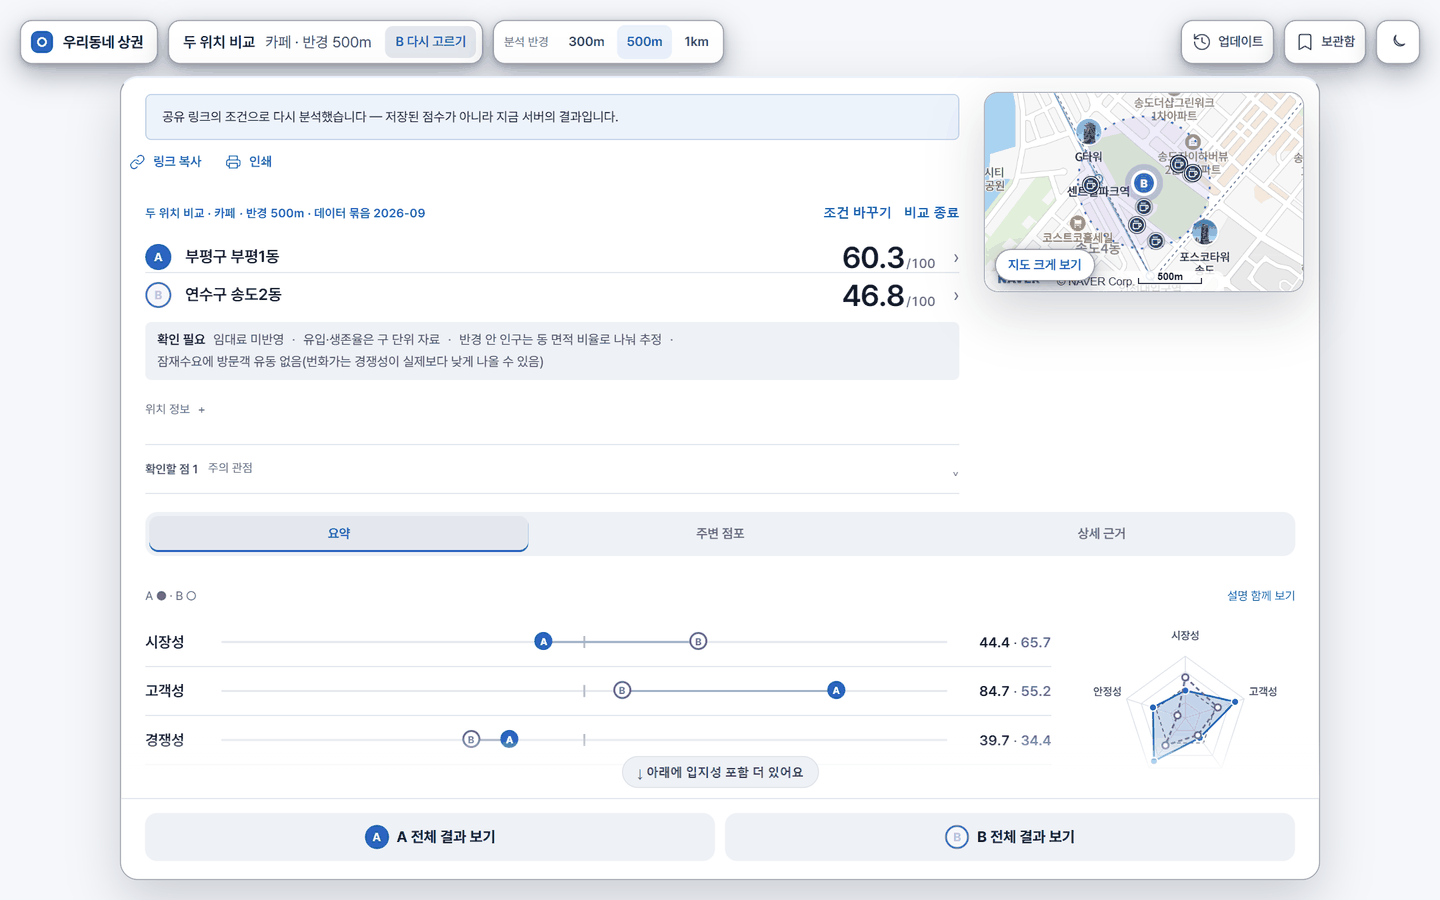
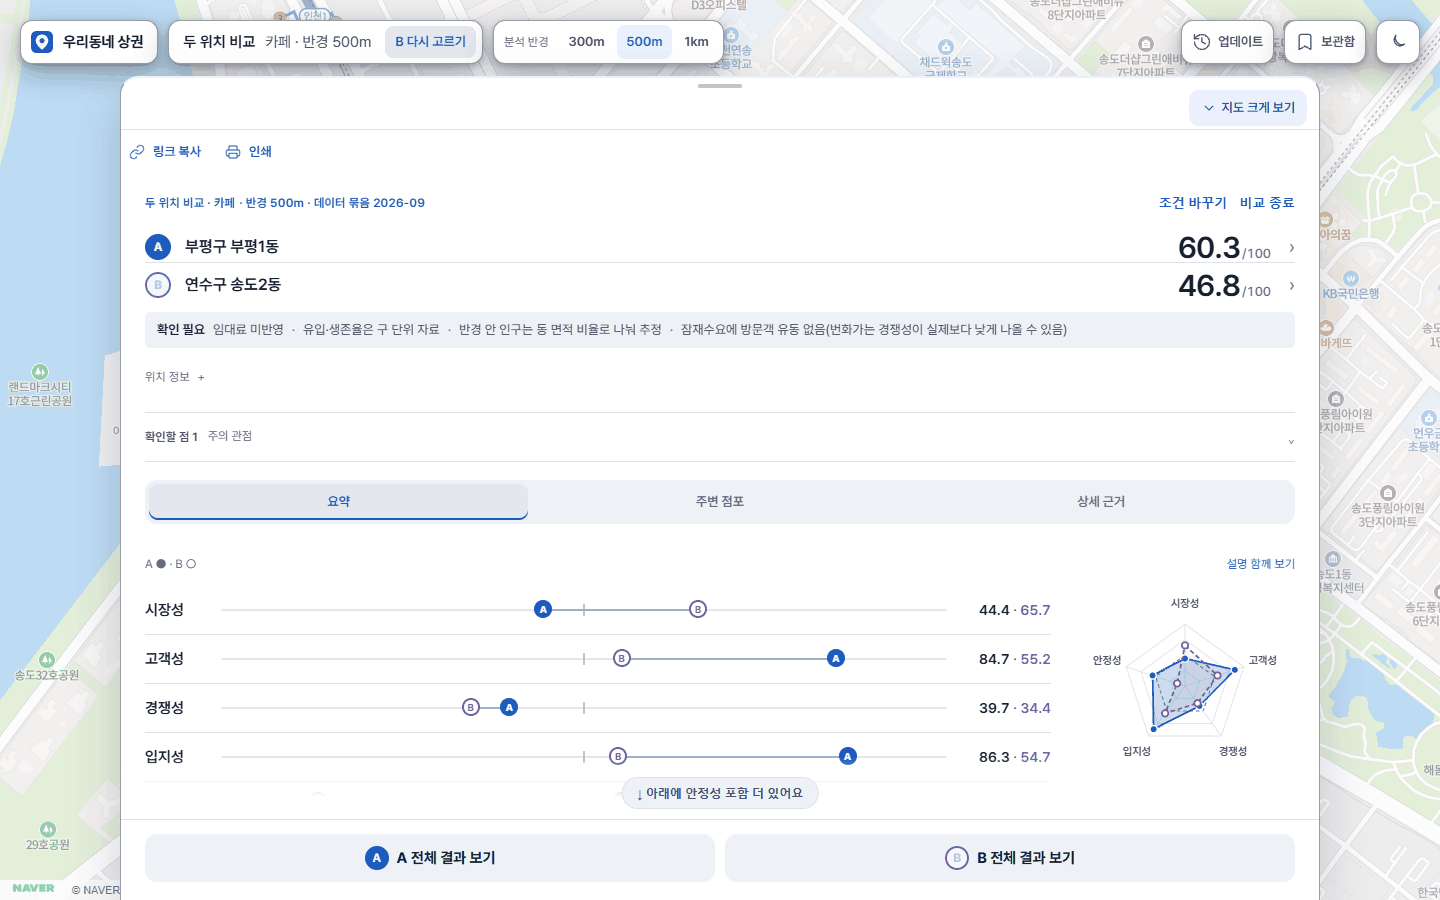
docs: v0.3.4 운영 전환 기록 — 875ebed 트래픽 100%(2026-11-10 16:35 KST), 운영 smoke PASSED·화면·ERROR·5xx 0, 복구 대상 9e96e6f, README 캡처를 운영 화면으로 다시 찍음 (13-45)
전체 check --jobs 5 19단계 PASS·E2E 5/5(875ebed). 무트래픽 smoke 1회차는 warm 3/87 에서 대조해 실패, warm 완료 뒤 2회차 PASSED. 패치노트에 검증·운영 배포 기록 2건과 커밋 875ebed·5ed802a 연결.

Patch-Note: v0.3.4

diff --git a/CLAUDE.md b/CLAUDE.md
@@ -1,7 +1,7 @@
 # CLAUDE.md
 
 ## Project Goal
-인천 지역에서 사용자가 지도상의 위치와 업종을 선택하면 버전 선택형 scoring engine으로 상권을 분석하는 웹 애플리케이션이다. 현재 운영은 앱 v0.3.3 + 엔진 v0.5.1(300·500·1,000m) + **데이터 버전 2026-09**(2026-11-02 02:54 KST 전환 `9e96e6f` — 13-44 대시보드 시트(D-044: 지도 전체 배경 + 끌어올리는 결과 시트, DESIGN 20.1), 복구 대상 `1c95e66` v0.3.2 — `docs/DEPLOYMENT_2026-11-02_v033_preview.md` 6장). 직전 전환: 앱 v0.3.2 + 데이터 2026-09(2026-11-01 05:19 KST 전환 `1c95e66` — 12-9 보안 헤더·9-C5 새 자료 알림·12-29 Firebase Hosting 앞단 대응(D-042: 짧은 주소 `.web.app`, `scripts/firebase_hosting.py`), 복구 대상 `e396c85` v0.3.1 — `docs/DEPLOYMENT_2026-11-01_v032_preview.md` 7장). 직전 전환: 앱 v0.3.1 + 데이터 2026-09(이미지 build arg `DATA_VERSION`, `data/versions/2026-09` — 데이터 파일은 git 밖이라 배포 작업 폴더가 컨텍스트에 넣는다)이다(2026-11-01 04:20 KST 전환 `e396c85` — 12-7 데이터 첫 갱신·12-8 CI·12-10 사용 현황 로그·지원사업 구 이름·공고 스냅샷(`scripts/build_support_snapshot.py --secrets` 를 배포마다), 복구 대상 `bae906e` v0.3.0·데이터 2026-06 — `docs/DEPLOYMENT_2026-11-01_v031_preview.md` 7장). 직전 전환: `bae906e` v0.3.0(2026-11-01 02:59 KST — R3 지원사업 연계(13-30~13-34, D-039: 기업마당·K-Startup, Secret `bizinfo-api-key`·`data-go-kr-api-key`)·가까운 역 승하차(13-40·13-41, D-040, `data/extra/`)·엔진 v0.6 요청서(13-42), 복구 대상 `9d22d1c` v0.2.0 — `docs/DEPLOYMENT_2026-11-01_v030_preview.md` 7장). 직전 전환: `9d22d1c` v0.2.0(2026-10-31 23:37 KST — R2 AI 요약·질문(13-23~13-29, D-037: Sonnet 5.5, 월 $30·하루 $3, 키는 Secret `anthropic-api-key`), 복구 대상 `0cfb689` v0.1.1 — `docs/DEPLOYMENT_2026-10-31_v020_preview.md` 7장). 직전 전환: `0cfb689` v0.1.1(09:20 KST — R1 미착수분 13-21·D7: 보관함 저장 당시 요약·인쇄 요약 카드·비교 요약 거미줄·첫 방문 안내 한 번의 흐름, 복구 대상 `2542152` v0.1.0 — `docs/DEPLOYMENT_2026-10-31_v011_preview.md` 7장). 직전 전환: `2542152` v0.1.0(2026-10-31 08:39 KST, R1 대시보드 리디자인 + Codex 검수 R1-1~R1-10, `docs/DEPLOYMENT_2026-10-31_v010_preview.md`). 그 전: `ef32cc5` v0.0.16(02:20 KST, R0 긴급 수정). R3 까지 계획(2026-10-30) 묶음을 모두 운영에 올렸다. 엔진 v0.6 은 엔진 담당 회신 뒤 별도 단위다. 다음 작업은 사용자 지시로 시작한다. 직전의 직전: `b7979c4` v0.0.15(2026-10-29 14:07 KST). 장소 이름 검색은 서버에 NAVER 검색 키가 없어 꺼진 채다(켜려면 Secret 추가 별도 배포). 직전 전환: `c0ebd5b` v0.0.14(09:59 KST, 0차 "정확한 의미", `docs/DEPLOYMENT_2026-10-29_v0014_preview.md`). 운영 화면 확인은 NAVER 등록 주소(프로젝트 번호 형식)에서만 한다(D-018). **Cloud Run 배포·전환·태그 정리는 `scripts/deploy_cloud_run.py` 로만 한다**(후보 리비전 최소 인스턴스 0·운영 최소는 서비스 단위·비용 설정 명시, 검증 태그는 끝나면 제거 — D-038, `docs/COST_2026-10-31.md`).
+인천 지역에서 사용자가 지도상의 위치와 업종을 선택하면 버전 선택형 scoring engine으로 상권을 분석하는 웹 애플리케이션이다. 현재 운영은 앱 v0.3.4 + 엔진 v0.5.1(300·500·1,000m) + **데이터 버전 2026-09**(2026-11-10 16:35 KST 전환 `875ebed` — 13-45 위치 핀 로고, 복구 대상 `9e96e6f` v0.3.3 — `docs/DEPLOYMENT_2026-11-10_v034_preview.md` 5장). 직전 전환: 앱 v0.3.3(2026-11-02 02:54 KST 전환 `9e96e6f` — 13-44 대시보드 시트(D-044: 지도 전체 배경 + 끌어올리는 결과 시트, DESIGN 20.1), 복구 대상 `1c95e66` v0.3.2 — `docs/DEPLOYMENT_2026-11-02_v033_preview.md` 6장). 직전 전환: 앱 v0.3.2 + 데이터 2026-09(2026-11-01 05:19 KST 전환 `1c95e66` — 12-9 보안 헤더·9-C5 새 자료 알림·12-29 Firebase Hosting 앞단 대응(D-042: 짧은 주소 `.web.app`, `scripts/firebase_hosting.py`), 복구 대상 `e396c85` v0.3.1 — `docs/DEPLOYMENT_2026-11-01_v032_preview.md` 7장). 직전 전환: 앱 v0.3.1 + 데이터 2026-09(이미지 build arg `DATA_VERSION`, `data/versions/2026-09` — 데이터 파일은 git 밖이라 배포 작업 폴더가 컨텍스트에 넣는다)이다(2026-11-01 04:20 KST 전환 `e396c85` — 12-7 데이터 첫 갱신·12-8 CI·12-10 사용 현황 로그·지원사업 구 이름·공고 스냅샷(`scripts/build_support_snapshot.py --secrets` 를 배포마다), 복구 대상 `bae906e` v0.3.0·데이터 2026-06 — `docs/DEPLOYMENT_2026-11-01_v031_preview.md` 7장). 직전 전환: `bae906e` v0.3.0(2026-11-01 02:59 KST — R3 지원사업 연계(13-30~13-34, D-039: 기업마당·K-Startup, Secret `bizinfo-api-key`·`data-go-kr-api-key`)·가까운 역 승하차(13-40·13-41, D-040, `data/extra/`)·엔진 v0.6 요청서(13-42), 복구 대상 `9d22d1c` v0.2.0 — `docs/DEPLOYMENT_2026-11-01_v030_preview.md` 7장). 직전 전환: `9d22d1c` v0.2.0(2026-10-31 23:37 KST — R2 AI 요약·질문(13-23~13-29, D-037: Sonnet 5.5, 월 $30·하루 $3, 키는 Secret `anthropic-api-key`), 복구 대상 `0cfb689` v0.1.1 — `docs/DEPLOYMENT_2026-10-31_v020_preview.md` 7장). 직전 전환: `0cfb689` v0.1.1(09:20 KST — R1 미착수분 13-21·D7: 보관함 저장 당시 요약·인쇄 요약 카드·비교 요약 거미줄·첫 방문 안내 한 번의 흐름, 복구 대상 `2542152` v0.1.0 — `docs/DEPLOYMENT_2026-10-31_v011_preview.md` 7장). 직전 전환: `2542152` v0.1.0(2026-10-31 08:39 KST, R1 대시보드 리디자인 + Codex 검수 R1-1~R1-10, `docs/DEPLOYMENT_2026-10-31_v010_preview.md`). 그 전: `ef32cc5` v0.0.16(02:20 KST, R0 긴급 수정). R3 까지 계획(2026-10-30) 묶음을 모두 운영에 올렸다. 엔진 v0.6 은 엔진 담당 회신 뒤 별도 단위다. 다음 작업은 사용자 지시로 시작한다. 직전의 직전: `b7979c4` v0.0.15(2026-10-29 14:07 KST). 장소 이름 검색은 서버에 NAVER 검색 키가 없어 꺼진 채다(켜려면 Secret 추가 별도 배포). 직전 전환: `c0ebd5b` v0.0.14(09:59 KST, 0차 "정확한 의미", `docs/DEPLOYMENT_2026-10-29_v0014_preview.md`). 운영 화면 확인은 NAVER 등록 주소(프로젝트 번호 형식)에서만 한다(D-018). **Cloud Run 배포·전환·태그 정리는 `scripts/deploy_cloud_run.py` 로만 한다**(후보 리비전 최소 인스턴스 0·운영 최소는 서비스 단위·비용 설정 명시, 검증 태그는 끝나면 제거 — D-038, `docs/COST_2026-10-31.md`).
 **1차 "활용"(앱 v0.0.15, D-036)**: 2026-10-29 저장소 반영(`docs/TASKS.md` 12-3·12-26·12-27·12-25·12-15·12-14: 조건 공유 링크·반경별 비교 표·현장 확인 카드·후보 보관함·인쇄·장소 이름 검색 프록시) → Codex 검수 3차 통과(R1~R5 수정 `b5b8746`·`b7979c4`, `docs/CODEX_REVIEW_2026-10-29_v0015.md`) → 무트래픽 검증(13:52 KST) → **운영 전환(14:07 KST)**. 다음 단계(2차 체계·3차 모델 검증, `docs/IMPROVEMENT_PLAN_2026-10-29.md` 4·5장)는 사용자 지시로 시작한다. 장소 검색의 운영 반영은 사용자가 NAVER 검색 API 키를 발급해 Cloud Run Secret 으로 넣은 뒤 별도 배포 단위다.
 2026-10-19 운영 배포(당시 기록): 사용자 승인으로 `1020200`의 A3 다크·UI 간소화·v0.4 반경 선택을 배포했다. 무트래픽 검증과 warm 87/87 완료 후 100% 전환했고, 이전 리비전은 복구용으로 보존했다. 배포 검증 범위와 미완료 항목은 `docs/DEPLOYMENT_2026-10-19.md`. 아래 기존 단위의 운영 미배포 표기는 배포 전 기록이다. 모바일 지도 시트 참고 주소 한 줄의 production CSS 차이가 후속으로 남아 있다.
 구현·검수 이력: A3 지도 탐색형·블루안(`DESIGN.md` §19, D-023), 8-B1 단일·8-B2 비교 지도 맞춤, 8-DK·8-L·8-C1a~d·8-P 및 추가 UI 간소화, 8-D1~8-D3 반경 선택을 저장소에 반영했고 이번 배포에 포함했다.

diff --git a/docs/TASKS.md b/docs/TASKS.md
@@ -2,9 +2,9 @@
 
 검증은 `CLAUDE.md` Definition of Done(2026-10-25 개정)을 따른다 — 작업 중에는 변경별 검증(영향받는 검사·`scripts/check --only`), 배포 후보가 확정되면 최종 소스로 전체 `scripts/check` 1회. 아래 과거 항목의 "전체 check" 기록은 당시 규칙이다. 위에서부터 순서대로.
 
-## 현재 운영 상태 (마지막 전환 2026-11-02 02:54 KST)
+## 현재 운영 상태 (마지막 전환 2026-11-10 16:35 KST)
 
-**지금 기준(2026-11-02)** — 운영 = `9e96e6f`(앱 v0.3.3, 엔진 v0.5.1, 데이터 2026-09) 트래픽 100%, 복구 대상 `1c95e66`(v0.3.2), [기록](DEPLOYMENT_2026-11-02_v033_preview.md) 6장. 바로 이어서 할 개발 단위는 없다. 남은 항목은 모두 사용자 지시나 외부 조건이 있어야 시작한다:
+**지금 기준(2026-11-10)** — 운영 = `875ebed`(앱 v0.3.4, 엔진 v0.5.1, 데이터 2026-09) 트래픽 100%, 복구 대상 `9e96e6f`(v0.3.3), [기록](DEPLOYMENT_2026-11-10_v034_preview.md) 5장. 바로 이어서 할 개발 단위는 없다. 남은 항목은 모두 사용자 지시나 외부 조건이 있어야 시작한다:
 - 사용자·팀 쪽: 엔진 v0.6 요청 전달([요청서](ENGINE_V0_6_REQUEST.md))과 10-7 확인 요청, 실기기·Safari·Firefox·스크린리더 확인, 9-A5 구 지명 가독성(발행 시점은 사용자 판단), 예비창업자 과제 테스트([12-24](VALIDATION_2026-11-01.md) 7장).
 - 키·자료가 있어야 하는 선택 항목: 장소 이름 검색(NAVER 검색 키 Secret 추가 뒤 별도 배포), 12-29 ③ 사용자 도메인, 10장 v0.6 검토 과제(자료 확보 먼저), 8-D2c 정식 반복·동시 부하 측정.
 - 계속 보관: `data/versions/2026-09`와 인허가 원본 파일 — 전향적 시간 분할 검증에 필요하다. 1년 결과는 2027-10 이후다([12-24](VALIDATION_2026-11-01.md) 6장).
@@ -110,8 +110,8 @@
 - [x] 13-41 (2026-11-01, v0.3.0, D-040) (b) 화면 자료로 도입: 인천교통공사 역별 시간대별 승하차 → `scripts/build_station_ridership.py` → `data/extra/station_ridership.csv`(68역·272행, 2025-07~2026-06 평일/주말 하루 평균, 원본은 저장소 밖) → `backend/app/ridership.py`(1회 로드, 엔진 역 좌표로 1km 안 가장 가까운 역) → `/insights` 선택 필드 `station` → 시간대·인구 카드 "가까운 역" 블록(평일/주말 하차 막대·합계·출처·포함 노선·점수 무관). Dockerfile `COPY data/extra/`. 코레일 자료는 원 게시판 공공누리 4유형(변경금지)이라 제외 — 경인선 이용자 빠짐을 화면에 밝힘. 테스트: backend `test_ridership.py` 4(변환·파일 무결성·가까운 역·계약), frontend `StationRidershipBlock` 4, v0.5 패키징 2. 브라우저(로컬): 부평역 앞 블록·평일/주말 전환·눈금. 원래 항목: 도입: (a) 엔진 입력 가능 → `data/versions/<id>/`(12-7과 합침, 검증 7단계·29업종 diff) / (b) 화면 전용 → `data/extra/` + 13-15 카드 확장. `data/runtime` 불변. 검증 D 또는 C+B.
 - [x] 13-42 (2026-11-01) 엔진 v0.6 요청서 [ENGINE_V0_6_REQUEST.md](ENGINE_V0_6_REQUEST.md) — ① M3 에 역 승하차(지점 단위) 반영 검토(구 11개 백분위 한계, 코레일은 이용 조건 확인 필요) ② 야간 업종: M3 가 도착 인원 기준이라 심야 체류 업종 불리 가능(체류 근사·야간 구간·실제 매출 시간 분포 안) ③ 등급 70/40/25 확인·엔진 등급 필드 여부 ④ 경쟁성 31.9 vs 32.4 = v0.5.1 분동 수정에 따른 비교 분포 변화 — 팀 엔진 반영·결과표 재생성 요청, 안정성 차이는 웹 임대료 미연결 ⑤ 잠재수요 문구 통일 + 이전 확인 요청(10-7). **전달은 사용자 몫**(팀 채널) — 회신 오면 v0.6 절차. 검증 A(문서, 인용 코드 값 대조). 원래 항목: 엔진 v0.6 요청서(시간대 적합도 새 자료·야간 업종·등급 경계값·경쟁성 v0.5→v0.5.1 설명·잠재수요 문구). 검증 A.
 - [x] 13-43 R3 마무리 — **운영 전환 완료(2026-11-01 02:59 KST, 사용자 승인 "전환 진행", `bae906e` v0.3.0, 운영 smoke PASSED·화면 확인·ERROR·5xx 0, 배포 문서 7장)**. 무트래픽 검증 통과(2026-11-01) — `docs/DEPLOYMENT_2026-11-01_v030_preview.md`: `bae906e` 전체 check `--jobs 5` 1회차 19단계 PASS·E2E 5/5, 무트래픽 `bae906e-v051`(Secret 3개) smoke PASS(48건 불일치 0·가까운 역 부평), 서버 지원사업 수집 543건, 화면 지원사업 카드·AI 요약(목록 공고만)·가까운 역. 배포 스크립트 `--support`. 원래 항목: R3 마무리: 패치노트 v0.3.0, 전체 check + E2E, Secret(사용자) → 무트래픽 → 승인 전환. 검증 F.
-- [x] 13-44 (2026-11-02, 앱 v0.3.3, D-044, **운영 전환 02:54 KST `9e96e6f`**, [기록](DEPLOYMENT_2026-11-02_v033_preview.md)) 대시보드를 지도 전체 배경 + 끌어올리는 시트로: 손잡이 끌기·누르기·키보드, 오른쪽 패널 ↔ 시트 이어지는 전환, 지도를 눌러 닫힌 결과의 "이전 결과로 돌아가기", 1366 폭 조건 바 두 줄 겹침 수정. README 캡처(`docs/images/`)는 지난 화면이라 다시 찍을지 사용자 확인 필요.
-- [x] 13-45 (2026-11-02, 앱 v0.3.4, 저장소 반영 — 운영 미반영) 로고를 임시 고리에서 위치 핀으로 교체(시안 4개 중 사용자 선택 A안): `frontend/public/favicon.svg` + 조건 바 인라인 SVG(테마 색 따름). 홈 화면 아이콘·링크 미리보기 이미지는 범위 밖.
+- [x] 13-44 (2026-11-02, 앱 v0.3.3, D-044, **운영 전환 02:54 KST `9e96e6f`**, [기록](DEPLOYMENT_2026-11-02_v033_preview.md)) 대시보드를 지도 전체 배경 + 끌어올리는 시트로: 손잡이 끌기·누르기·키보드, 오른쪽 패널 ↔ 시트 이어지는 전환, 지도를 눌러 닫힌 결과의 "이전 결과로 돌아가기", 1366 폭 조건 바 두 줄 겹침 수정. README 캡처(`docs/images/`)는 2026-11-10 v0.3.4 운영 화면으로 다시 찍음([기록](DEPLOYMENT_2026-11-10_v034_preview.md) 6장).
+- [x] 13-45 (2026-11-02, 앱 v0.3.4, **운영 전환 2026-11-10 16:35 KST `875ebed`**, [기록](DEPLOYMENT_2026-11-10_v034_preview.md)) 로고를 임시 고리에서 위치 핀으로 교체(시안 4개 중 사용자 선택 A안): `frontend/public/favicon.svg` + 조건 바 인라인 SVG(테마 색 따름). 홈 화면 아이콘·링크 미리보기 이미지는 범위 밖.
 
 ## 12. 운영 사이트·저장소 진단 후속 (2026-10-29, [진단](REVIEW_2026-10-29.md)) — 모든 단위 처리 완료(2026-11-01, 12-13은 구현하지 않기로 제외, 12-29 ③ 사용자 도메인은 선택으로 남음)
 

diff --git a/docs/DEPLOYMENT_2026-11-10_v034_preview.md b/docs/DEPLOYMENT_2026-11-10_v034_preview.md
@@ -1,0 +1,39 @@
+# 운영 전환 기록 — 앱 v0.3.4 + 엔진 v0.5.1 + 데이터 2026-09 (2026-11-10 · **운영 전환 5장**)
+
+배포 후보 = v0.3.3 운영본(`9e96e6f`) 뒤 문서 커밋(`97cb59d`) + 13-45 위치 핀 로고(`875ebed`). 사용자 지시 "바로 할 수 있는 3개 바로 진행해줘"(로고 v0.3.4 푸시·배포, README 캡처, 발표 폴더 정리). 바뀐 것은 브라우저 탭 아이콘(`public/favicon.svg`)과 조건 바 로고(인라인 SVG)뿐이다. 엔진·데이터(2026-09)·API 는 운영과 같아 점수는 바뀌지 않는다.
+
+## 1. 검증 (규칙 F)
+| 소스 | 명령 | 결과 |
+| --- | --- | --- |
+| `875ebed` | 전체 check `--jobs 5` | **19단계 PASS, 재실행 없음**(v0.3 382 · v0.4 61 · v0.5 104 · v0.5.1 40 · backend 258 passed/1 skipped · frontend 66파일 1,038 · patch-notes, 607.3초) |
+| `875ebed` | E2E `--only e2e` | 5흐름 PASS(77.6초) |
+
+- 로그 `.gstack/check-logs/v034-*.log`(git 제외). 보호 경로 변경 0. 프런트 이외 서버·엔진·데이터 변경 0.
+- 로고 단위 검증(커밋 전, 2026-11-02): 관련 vitest 3파일 207건, typecheck, lint, production build, 로컬 개발 서버 라이트·다크 로고 22×22px·색 확인.
+
+## 2. 이미지
+- 작업 폴더 `.gstack/deploy-875ebed/`(git 제외): `git -c core.autocrlf=false archive 875ebed` → 추출 뒤 blob 대조 1,125개 중 차이 2개 = `.gitattributes` `eol=crlf` 보호 원본(직전 배포와 같은 의도된 차이).
+- 데이터 2026-09 파일 + 공고 스냅샷(`build_support_snapshot.py --secrets`, 557건 = 기업마당 436 + K-Startup 131, 2026-11-10 16:04 기준) + 역 승하차 자료(커밋 그대로). 처음에 역 자료 2개를 작업 폴더 사본(줄바꿈 변환)으로 덮어썼다가 커밋 원본으로 되돌리고 추적 파일 전체를 다시 대조했다(차이 = 위 2개뿐).
+- 첫 빌드는 Docker Desktop 이 꺼져 있어 **실패**(엔진 연결 불가) — 켠 뒤 다시 빌드 "data version 2026-09 roles 8 bad []". push digest `sha256:efc80946eeea17559e3503ab838f73b83284b28f12b7f3c2cb9fd4abcf31a98a`.
+
+## 3. 무트래픽 리비전 `<서비스>-875ebed-v051`
+- `deploy_cloud_run.py candidate 875ebed --ai --support --apply`(최소 0·최대 1·CPU 상시·Secret 3개 이름만), 태그 `preview`, 트래픽 0.
+- `smoke_api.py check`(기대값 = e396c85 때 만든 데이터 2026-09·엔진 v0.5.1 기대값 재사용 — 엔진·데이터 입력이 같다):
+  - 1회차 **FAILED** — 리비전이 막 켜져 warm 3/87 에서 대조했다(실패 항목은 warm 미완료 1건뿐).
+  - `/health` warm 87/87 을 기다린 뒤 2회차 **SMOKE PASSED**: 48건 불일치 0(지연 최소 116 · 중앙값 135 · 최대 229ms), `/rank` 29개 일치, `/insights` 가까운 역 부평·20, AI budget ok.
+- 리비전 ERROR·5xx 0.
+
+## 4. 화면 (preview 등록 주소, 인증 성공)
+- Playwright(Chromium) 1440×900 다크, 실제 NAVER 지도: 지도 인증 성공(래스터), 조건 바 로고 = 위치 핀 22×22px, `/favicon.svg` 위치 핀, 부평1동 카페 500m 종합 60.3·가까운 역 부평역·AI 요약·지원사업 카드, 업데이트 내역 최신 v0.3.4, 콘솔 오류 0.
+- 내장 브라우저 패널은 가려진 상태라 지도가 "불러오는 중"에 머물러(백그라운드 페이지) 판정에 쓰지 않았다.
+
+## 5. 운영 전환 (2026-11-10 16:35 KST, 사용자 지시 "바로 진행해줘")
+- `python scripts/deploy_cloud_run.py switch <서비스>-875ebed-v051 --apply`: 전환 전 `9e96e6f-v051` 100% 확인, 전환 뒤 `875ebed-v051` 100%·서비스 `minScale` 1, 새 리비전 안 생김.
+- 운영 주소 `smoke_api.py check`(같은 기대값) **SMOKE PASSED**: warm 87/87, `/health data` 2026-09, 48건 불일치 0(지연 최소 106 · 중앙값 139 · 최대 240ms), `/rank` 29개 일치, 가까운 역 부평·20.
+- Firebase 기본 주소도 `/health` 200.
+- 등록 운영 주소 화면(Playwright 1440×900 다크): 지도 인증 성공, 위치 핀 로고·favicon, 부평1동 카페 500m 60.3·AI 요약·지원사업, 업데이트 내역 v0.3.4, 콘솔 오류 0.
+- 복구: `python scripts/deploy_cloud_run.py rollback <서비스>-9e96e6f-v051 --apply`(v0.3.3).
+- 미검증: 실기기·Safari·Firefox·스크린리더, 실제 브라우저 탭에 보이는 아이콘(헤드리스로는 `/favicon.svg` 응답만 확인).
+
+## 6. README 캡처
+- 전환 뒤 등록 운영 주소에서 4장(시작·결과·비교 라이트 1440×900, 모바일 다크 390×844 @2x)을 다시 찍어 256색으로 줄여 `docs/images/` 에 넣었다. 공유 링크로 연 화면의 "공유 링크의 조건으로 다시 분석했습니다" 안내는 반경 1km → 500m 로 같은 조건을 다시 분석해 지운 뒤 찍었다.

diff --git a/README.md b/README.md
@@ -6,7 +6,7 @@
 
 예비 창업자가 "여기에 이 가게를 열어도 될까?"를 공개 데이터로 먼저 따져 보는 웹 서비스입니다.
 
-[![check](https://github.com/Ow-wL/harness-commercial/actions/workflows/check.yml/badge.svg)](https://github.com/Ow-wL/harness-commercial/actions/workflows/check.yml) ![앱](https://img.shields.io/badge/%EC%95%B1-v0.3.2-1B5CBE) ![엔진](https://img.shields.io/badge/%EC%97%94%EC%A7%84-v0.5.1-1B5CBE) ![데이터](https://img.shields.io/badge/%EB%8D%B0%EC%9D%B4%ED%84%B0-2026--09-1B5CBE)
+[![check](https://github.com/Ow-wL/harness-commercial/actions/workflows/check.yml/badge.svg)](https://github.com/Ow-wL/harness-commercial/actions/workflows/check.yml) ![앱](https://img.shields.io/badge/%EC%95%B1-v0.3.4-1B5CBE) ![엔진](https://img.shields.io/badge/%EC%97%94%EC%A7%84-v0.5.1-1B5CBE) ![데이터](https://img.shields.io/badge/%EB%8D%B0%EC%9D%B4%ED%84%B0-2026--09-1B5CBE)
 
 ![React](https://img.shields.io/badge/React-20232A?logo=react&logoColor=61DAFB) ![TypeScript](https://img.shields.io/badge/TypeScript-3178C6?logo=typescript&logoColor=white) ![FastAPI](https://img.shields.io/badge/FastAPI-009688?logo=fastapi&logoColor=white) ![Python](https://img.shields.io/badge/Python_3.10-3776AB?logo=python&logoColor=white) ![Cloud Run](https://img.shields.io/badge/Cloud_Run-4285F4?logo=googlecloud&logoColor=white)
 
@@ -33,7 +33,7 @@
   </tr>
 </table>
 
-<sub>로컬 개발 서버에서 앱 v0.3.2·엔진 v0.5.1·데이터 2026-09로 찍은 화면입니다(2026-11-01). AI·지원사업 카드는 키 없이 실행해 빠져 있습니다. 지도 © NAVER Corp.</sub>
+<sub>운영 화면(앱 v0.3.4·엔진 v0.5.1·데이터 2026-09)에서 찍었습니다(2026-11-10). 결과는 지도 위로 끌어올리는 시트로 보이고, 지도를 크게 본 뒤에도 이전 결과로 돌아올 수 있습니다. 지도 © NAVER Corp.</sub>
 
 ## ✨ 주요 기능
 
@@ -42,7 +42,7 @@
 | 📍 | **위치 고르기** | 지도 클릭, 주소 검색, 역 이름, 좌표 입력 |
 | 🏪 | **업종 29개** | 고객밀착형·유동인구형·목적방문형·체류소비형, 유형마다 관점 가중치가 다릅니다 |
 | ⭕ | **분석 반경** | 300m · 500m · 1km, 반경별 비교 표 |
-| 📊 | **결과 대시보드** | 종합 점수와 등급, 한 줄 결론, 거미줄 그래프, 점수순 관점 막대, 근거 펼쳐 보기 |
+| 📊 | **결과 대시보드** | 지도 위로 끌어올리는 결과 시트 — 종합 점수와 등급, 한 줄 결론, 거미줄 그래프, 점수순 관점 막대, 근거 펼쳐 보기 |
 | 🏆 | **업종 순위** | 같은 자리에서 점수가 높은 업종 순서 |
 | 🕒 | **시간대와 사람** | 구 단위 시간대별 유입, 가까운 지하철역 승하차(점수와 무관) |
 | ⚠ | **규제 경고** | 학교 주변 규제 업종이면 점수 위에 경고를 펼쳐 보입니다 |
@@ -165,7 +165,7 @@ npm --prefix frontend run dev                              # frontend — http:/
 | 화면과 API 계약이 맞는지 | Zod 스키마, 백엔드·프런트 테스트, E2E |
 | 커밋과 배포가 기록되는지 | `scripts/patch_notes.py check` |
 
-마지막 전체 check는 `1c95e66`(v0.3.2) 기준 19단계 통과입니다(v0.3 382 · v0.4 61 · v0.5 104 · v0.5.1 40 · backend 258, 1건 skip · frontend 1,022). push마다 도는 빠른 CI와 매일 밤 전체 CI는 GitHub Actions에서 실행합니다.
+마지막 전체 check는 `875ebed`(v0.3.4) 기준 19단계 통과입니다(v0.3 382 · v0.4 61 · v0.5 104 · v0.5.1 40 · backend 258, 1건 skip · frontend 1,038). push마다 도는 빠른 CI와 매일 밤 전체 CI는 GitHub Actions에서 실행합니다.
 
 아직 확인하지 못한 환경은 실기기, Safari, Firefox, 스크린리더입니다.
 
